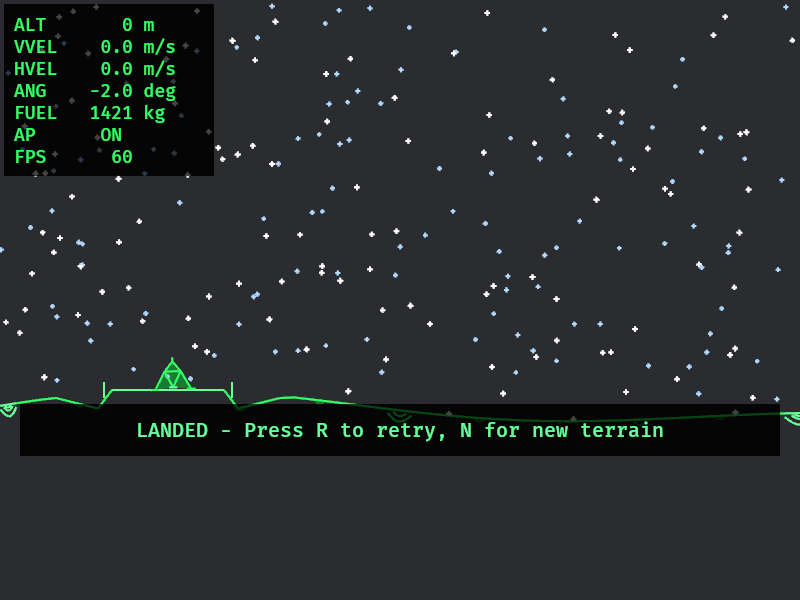
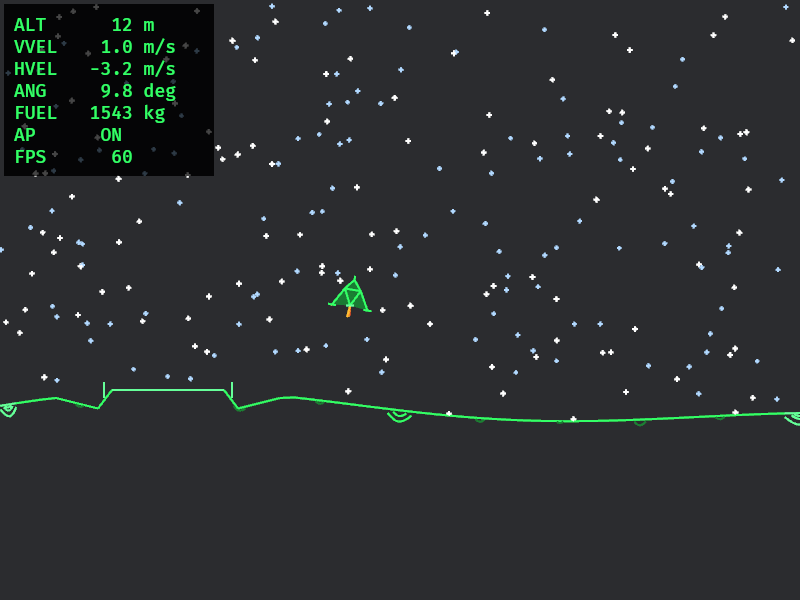
Fix autopilot screenshot to show in-flight final approach.
Stop capture when the lander is still descending near the pad with AP on, so it no longer matches the landed screenshot.

Changed region(s): [[0.0, 0.6, 1.0, 0.78], [0.125, 0.03, 0.1875, 0.21], [0.4062, 0.45, 0.4688, 0.54]]

diff --git a/src/game.rs b/src/game.rs
@@ -20,7 +20,7 @@ const MAX_LANDING_ANGLE: f32 = 15.0_f32.to_radians();
 const MAX_FRAME_DT: f32 = 0.05;
 const MAX_PHYSICS_STEPS_PER_FRAME: usize = 4;
 
-#[derive(Clone, Copy, PartialEq, Eq)]
+#[derive(Clone, Copy, PartialEq, Eq, Debug)]
 pub enum GameStatus {
     Flying,
     Landed,
@@ -84,15 +84,19 @@ impl GameState {
         *self = Self::new(self.seed);
     }
 
-    pub fn simulate_physics(&mut self, steps: usize, autopilot: bool) {
-        self.autopilot = autopilot;
-        if autopilot {
-            self.autopilot_smoothed_pitch = self.lander.body.angle;
-        }
+    pub fn simulate_autopilot_until<F>(&mut self, mut stop: F)
+    where
+        F: FnMut(&Self) -> bool,
+    {
+        self.autopilot = true;
+        self.autopilot_smoothed_pitch = self.lander.body.angle;
 
         let input = ThrustInput::default();
-        for _ in 0..steps {
+        for _ in 0..20_000 {
             if self.status != GameStatus::Flying {
+                break;
+            }
+            if stop(self) {
                 break;
             }
             physics_step(self, &input);

diff --git a/src/autopilot.rs b/src/autopilot.rs
@@ -229,6 +229,7 @@ pub fn compute_thrust(
 #[cfg(test)]
 mod tests {
     use super::*;
+    use crate::game::{GameState, GameStatus};
     use crate::physics::{sum_thrusters, PHYSICS_DT};
     use crate::world::{World, WORLD_WIDTH};
 
@@ -445,6 +446,22 @@ mod tests {
             result.steps,
         );
         assert!(world.is_on_pad(result.pos.x));
+    }
+
+    #[test]
+    fn autopilot_screenshot_pose_is_inflight_near_pad() {
+        let mut game = GameState::new(42);
+        game.simulate_autopilot_until(|game| {
+            let dx = (game.world.pad_center_x - game.lander.body.pos.x).abs();
+            let alt = game.world.clearance_above_terrain(&game.lander.hull_world);
+            dx < 28.0 && alt < 16.0 && alt > 5.0
+        });
+
+        assert_eq!(game.status, GameStatus::Flying);
+        assert!(game.autopilot);
+        let alt = game.world.clearance_above_terrain(&game.lander.hull_world);
+        assert!(alt > 5.0 && alt < 16.0, "expected final approach altitude, got {alt}");
+        assert!(game.lander.throttle_main > 0.1, "expected main engine firing on approach");
     }
 
     #[test]

diff --git a/src/screenshot.rs b/src/screenshot.rs
@@ -36,11 +36,11 @@ pub fn configure(app: &mut App) {
 pub fn apply_scene(mut game: ResMut<GameState>) {
     match std::env::var("LUNAR_SCENE").as_deref() {
         Ok("autopilot") => {
-            let steps = std::env::var("LUNAR_WARMUP_STEPS")
-                .ok()
-                .and_then(|value| value.parse().ok())
-                .unwrap_or(4_200);
-            game.simulate_physics(steps, true);
+            game.simulate_autopilot_until(|game| {
+                let dx = (game.world.pad_center_x - game.lander.body.pos.x).abs();
+                let alt = game.world.clearance_above_terrain(&game.lander.hull_world);
+                dx < 28.0 && alt < 16.0 && alt > 5.0
+            });
         }
         Ok("landed") => {
             *game = GameState::landed_demo(game.seed);

diff --git a/README.md b/README.md
@@ -15,9 +15,9 @@ A physics-based 2D lunar lander built in Rust with [Bevy](https://bevyengine.org
 
 ## Screenshots
 
-| Approach | Autopilot landing | Safe touchdown |
+| Downrange approach | Final approach (autopilot) | Safe touchdown |
 |----------|-------------------|----------------|
-| ![Approach](docs/screenshots/approach.png) | ![Autopilot](docs/screenshots/autopilot.png) | ![Landed](docs/screenshots/landed.png) |
+| ![Approach](docs/screenshots/approach.png) | ![Autopilot final approach with main engine firing](docs/screenshots/autopilot.png) | ![Landed on pad](docs/screenshots/landed.png) |
 
 ## Requirements
 